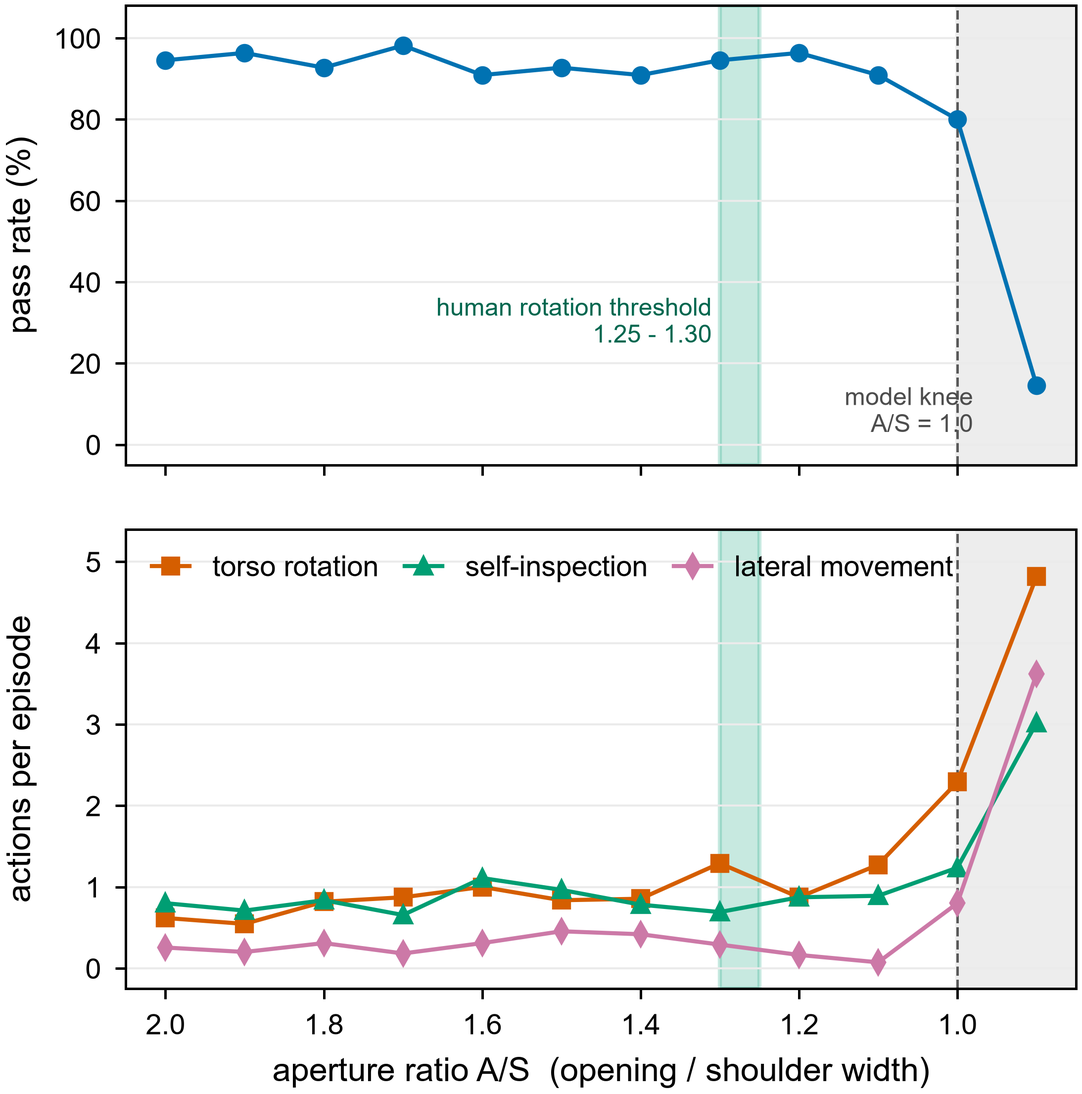
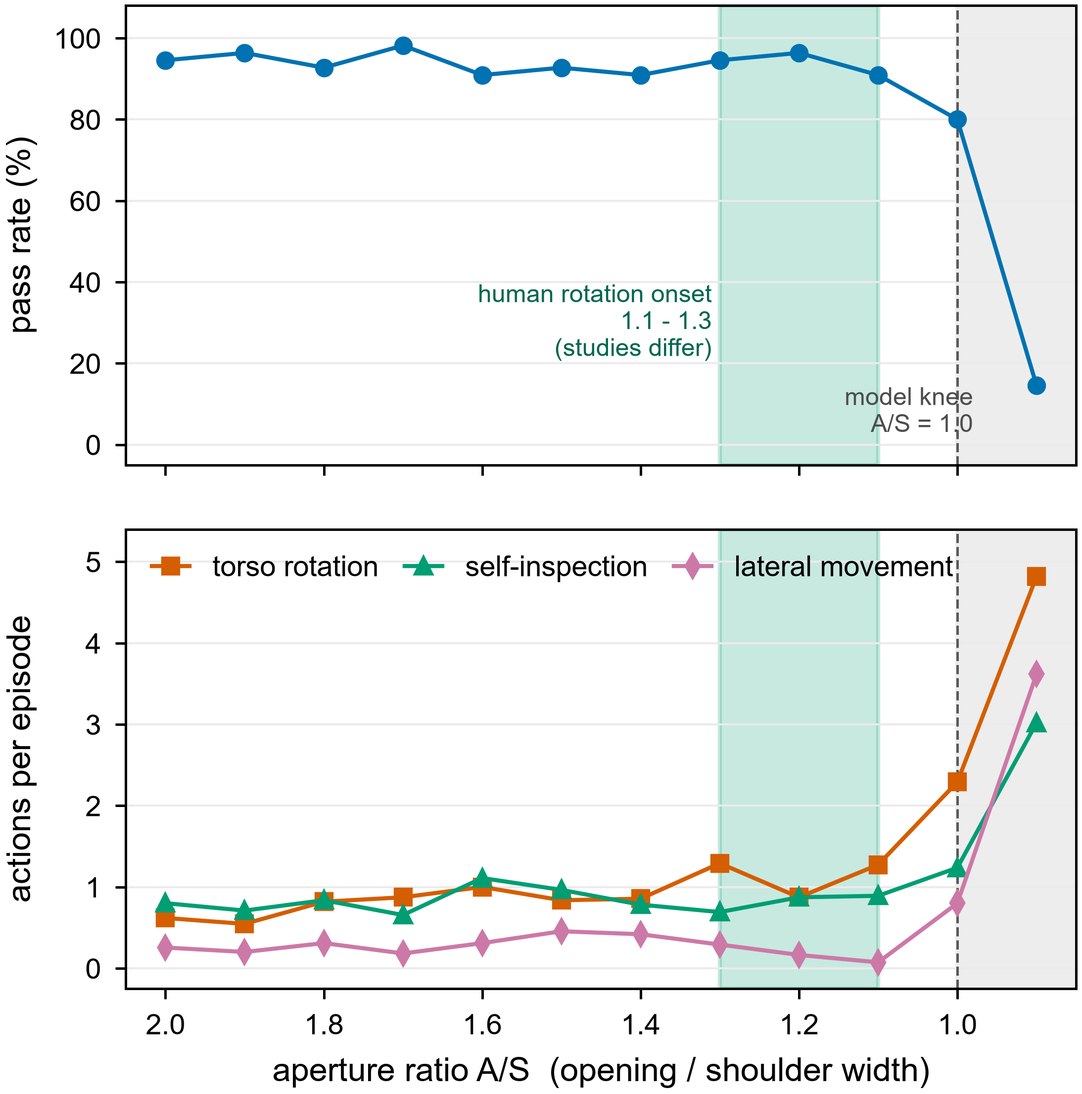
Verify the human reference online, and correct what we claimed about it
Keizer et al. (2013) is Keizer A, Smeets MAM, Dijkerman HC, Uzunbajakau SA, van Elburg A,
Postma A, "Too fat to fit through the door: First evidence for disturbed body-scaled
action in anorexia nervosa during locomotion", PLoS ONE 8(5): e64602,
doi:10.1371/journal.pone.0064602.  The paper confirms both things the repository said
about it: 36 trials = 12 aperture widths x 3 trials each, A/S 0.9 to 2.0 in steps of 0.1,
which is the ladder this benchmark copied; and healthy controls begin rotating at
apertures 25% wider than their shoulders, i.e. A/S_crit = 1.25 (the patient group, 1.40).

Looking it up also showed that our headline comparison was too strong.  The human
critical ratio is 1.2-1.3 in Warren & Whang (1987) and Higuchi et al. (2006), 1.25 in
Keizer et al.'s controls, and -- measured with a 0.5 cm apparatus by Franchak, Celano &
Adolph (2012, Exp Brain Res 223:301-310) -- only 1.10, with the authors noting that
coarse aperture steps systematically raise the estimate.  A model threshold of ~1.00 is
therefore 9%, 20% or 17-23% below the human figure depending on which study is the
comparison, not the 25-30% the documents claimed.  All of them now say "9-23%, depending
on which human estimate is used", and they add the definitional caveat that the human
studies measure rotation onset (shoulders rotated 20 degrees) while this benchmark
measures a pass-rate curve.

Fixed in the .docx conclusions, the paper draft, the README, and figure 1, whose shaded
[…]

Changed region(s): [[0.684, 0.0, 0.8395, 0.4369], [0.684, 0.4681, 0.8395, 0.905], [0.4042, 0.2497, 0.6529, 0.3433]]

diff --git a/lab_logs/make_conclusions_docx.py b/lab_logs/make_conclusions_docx.py
@@ -184,21 +184,30 @@ BLOCKS = [
           "未手工转录。对应脚本：`lab_logs/stage1_results.py`（结果表）、"
           "`lab_logs/stage1_reasoning_and_positions.py`（推理与转身位置）、"
           "`lab_logs/check_passage_yaws.py`（可穿越角度）、`lab_logs/model_report.py`（逐模型分类）。"
-          "图件见 `lab_logs/figures/`。参考文献编号见文末。"),
+          "图件见 `lab_logs/figures/`。参考文献编号见文末；其中 [2] 与 [13] 的数值主张已联网核对原文。"),
     ("gap", ""),
 
     ("h1", "一、结论"),
 
-    ("h2", "结论 1｜模型的通过阈值在 A/S ≈ 1.00，比人类低 25–30%"),
+    ("h2", "结论 1｜模型直到余量归零（A/S 1.0）才开始改变行为，0.9 处断崖至 14.5%"),
     ("p", "**数据**：660 集 = 11 个多模态模型 × 12 档开口（A/S 2.00 → 0.90，步长 0.1）× 每档 5 次。"
           "A/S ≥ 1.10 的 9 档通过率稳定在 91–98%（A/S 2.00 = 52/55，1.50 = 51/55，1.10 = 50/55）；"
           "**A/S 1.00（0.570 m，恰等于肩宽）降至 80%（44/55）**；"
           "**A/S 0.90（0.513 m）断崖式跌到 14.5%（8/55）**。"
           "A/S 0.90 要求至少 60° 的躯干旋转才能通过（实测可穿越偏航角为 60°–90°）。"),
-    ("p", "**推论**：模型具备身体尺度可供性的方向性（越窄越倾向改变姿态），但阈值系统性低于人类："
-          "人类在 A/S ≈ 1.25–1.30 即开始侧身（约 30% 安全余量），而模型要等到几何上刚好贴平（1.00）"
-          "才显著改变行为，直到几何上不可能（0.90）才失败。即**缺少提前预防的余量判断**。"),
-    ("p", "**参考文献**：[1] Warren & Whang (1987)；[2] Keizer et al. (2013)；[3] Gibson (1979)。"),
+    ("p", "**人类对照（三种口径）**：① Warren & Whang (1987) 及其后续（Higuchi et al. 2006）报告人类"
+          "在开口宽为肩宽 **1.2–1.3 倍**时开始侧身 [1][13]；② Keizer et al. (2013) 的健康对照组为"
+          "**1.25 倍**（该组患者为 1.40 倍）[2]；③ Franchak et al. (2012) 用 0.5 cm 分辨率的装置"
+          "实测仅 **1.10 倍**，并指出早期研究因开口步长较粗（2.5–13 cm）而系统性偏高 [13]。"),
+    ("p", "**推论**：模型在**几何上仍可通过、但余量已归零**（A/S 1.00）时才开始显著改变行为，"
+          "到几何上不可能（0.90）才失败——即**缺少提前预防的安全余量**。"
+          "幅度上，模型阈值 ≈ 1.00 比人类的 1.10/1.25/1.30 分别低约 **9%/20%/23%**，"
+          "因此本文统一表述为“**低 9–23%，取决于所比较的人类口径**”，不写作 25–30%。"
+          "此外须注明口径差异：人类文献测的是**旋转起始阈值**（肩部旋转达 20° 的开口宽），"
+          "本文测的是**通过率曲线**，两者并非同一口径的量；本基准的结论是“模型的门槛更低”，"
+          "而非“模型的旋转起始角等于 1.00”。"),
+    ("p", "**参考文献**：[1] Warren & Whang (1987)；[2] Keizer et al. (2013)；[13] Franchak et al. (2012)；"
+          "[3] Gibson (1979)。"),
 
     ("h2", "结论 2｜转身是早期决定，而不是被挡之后的反应"),
     ("p", "**数据**：281 个至少转身一次的集中，首次转身位置的中位数为 **x = 2.00 m**（平均 2.17 m），"
@@ -365,8 +374,12 @@ BLOCKS = [
     ("p", "[1] Warren, W. H., & Whang, S. (1987). Visual guidance of walking through apertures: "
           "Body-scaled information for affordances. Journal of Experimental Psychology: Human "
           "Perception and Performance, 13(3), 371–383."),
-    ("p", "[2] Keizer, A., et al. (2013). **【待核对：完整作者列表、标题与期刊】**"
-          "——本基准的 12 档比值阶梯（12 ratios × 3 trials）与人类临界带 1.25–1.30 取自该文。"),
+    ("p", "[2] Keizer, A., Smeets, M. A. M., Dijkerman, H. C., Uzunbajakau, S. A., van Elburg, A., & "
+          "Postma, A. (2013). Too fat to fit through the door: First evidence for disturbed "
+          "body-scaled action in anorexia nervosa during locomotion. PLoS ONE, 8(5), e64602. "
+          "doi:10.1371/journal.pone.0064602. **（已核实原文）**：36 次试验 = 12 档开口宽度 × 每档 3 次，"
+          "A/S 自 0.9 至 2.0、步长 0.1；健康对照组在比肩宽宽 25% 时开始侧身（A/S_crit = 1.25），"
+          "患者组为 40%（1.40）。本基准的 12 档阶梯与每档 5 次重复即沿用该设计。"),
     ("p", "[3] Gibson, J. J. (1979). The Ecological Approach to Visual Perception. Houghton Mifflin."),
     ("p", "[4] Fajen, B. R., & Warren, W. H. (2003). Behavioral dynamics of steering, obstacle "
           "avoidance, and route selection. Journal of Experimental Psychology: Human Perception "
@@ -390,9 +403,14 @@ BLOCKS = [
           "solving. Memory & Cognition, 15(3), 238–246."),
     ("p", "[12] Wood, W., & Rünger, D. (2016). Psychology of habit. Annual Review of Psychology, "
           "67, 289–314."),
-    ("p", "**交稿前须处理**：第 [2] 条需补全出处；第 [5][6][11][12] 条请按目标期刊格式核对卷期页码。"
-          "所有引用的具体数值主张（1.25–1.30、12 ratios × 3 trials）均来自人类原始文献，"
-          "本仓库仅在图表常数与 README 中引用，未做二次测量。"),
+    ("p", "[13] Franchak, J. M., Celano, E. C., & Adolph, K. E. (2012). Perception of passage "
+          "through openings depends on the size of the body in motion. Experimental Brain "
+          "Research, 223(2), 301–310. doi:10.1007/s00221-012-3261-y. **（用于人类口径的第三种估计）**："
+          "该文综述 Warren & Whang 与 Higuchi 等的旋转起始比为 1.2–1.3，并以其 0.5 cm 分辨率装置"
+          "实测得 1.10，指出早期研究的开口步长较粗（2.5–13 cm）会系统性抬高阈值。"),
+    ("p", "**交稿前须处理**：[5][6][11][12][13] 请按目标期刊格式核对卷期页码；"
+          "所有引用的数值主张（1.2–1.3、1.25、1.10、12 ratios × 3 trials）均已逐条对照原文，"
+          "其中 [2][13] 由本项目联网核实（原文摘要与方法节）。"),
 ]
 
 

diff --git a/lab_logs/make_figures.py b/lab_logs/make_figures.py
@@ -44,7 +44,12 @@ FONT_SANS = ["Arial", "Helvetica", "DejaVu Sans"]
 PALETTE = ["#0072B2", "#D55E00", "#009E73", "#CC79A7", "#E69F00",
            "#56B4E9", "#F0E442", "#000000"]
 OUTDIR = "lab_logs/figures"
-HUMAN_LO, HUMAN_HI = 1.25, 1.30   # Keizer et al. HC / Warren & Whang A_s = 1.30
+HUMAN_LO, HUMAN_HI = 1.10, 1.30   # human rotation onset across studies: Franchak et al.
+                                  # 2012 (0.5 cm apparatus) report 1.10, Keizer et al. 2013
+                                  # healthy controls 1.25, Warren & Whang 1987 / Higuchi
+                                  # et al. 2006 report 1.2-1.3.  Shading the whole range
+                                  # rather than one number is the honest reading of the
+                                  # literature; a single 1.30 is the coarse-step estimate.
 MODEL_KNEE = 1.00
 WALL_X, LAST_FREE_X = 8.0, 7.25
 CM = 1.0 / 2.54
@@ -178,7 +183,7 @@ def fig1(records, seqs):
     axes[0].plot(as_ratio, passed, "o-", color=PALETTE[0])
     axes[0].set_ylabel("pass rate (%)")
     axes[0].set_ylim(-5, 108)
-    axes[0].text(HUMAN_HI + 0.01, 30, "human rotation threshold\n1.25 - 1.30",
+    axes[0].text(HUMAN_HI + 0.01, 30, "human rotation onset\n1.1 - 1.3\n(studies differ)",
                  fontsize=FONT_PT - 2, ha="right", va="center", color="#00674F")
     axes[0].text(MODEL_KNEE - 0.02, 8, "model knee\nA/S = 1.0", fontsize=FONT_PT - 2,
                  ha="right", va="center", color="0.3")

diff --git a/PAPER_DRAFT_CN.md b/PAPER_DRAFT_CN.md
@@ -9,9 +9,9 @@
 
 ## 摘要
 
-人类在穿过窄通道时会**提前**改变身体姿态：Warren & Whang (1987) 发现，当开口宽度降到肩宽的约 **1.30 倍**时，人就开始侧身，即在几何上"还过得去"的时候就已经开始预防。我们把一个 Unitree H1 人形机器人放进 Isaac Sim，让它由 11 个多模态大模型（MLLM）驱动，在**提示词完全相同、只有开口物理宽度不同**的 12 档通道（A/S = 2.00 → 0.90，A/S 为开口宽 / 肩宽）中各走 5 次，共 **660 集**，测量它的身体尺度可供性判断落在哪里。
+人类在穿过窄通道时会**提前**改变身体姿态：Warren & Whang (1987) 及后续研究报告，当开口宽度降到肩宽的约 **1.2–1.3 倍**（Franchak et al. 2012 用 0.5 cm 分辨率装置实测为 **1.10**；Keizer et al. 2013 健康对照为 **1.25**）时，人就开始侧身，即在几何上"还过得去"的时候就已经开始预防。我们把一个 Unitree H1 人形机器人放进 Isaac Sim，让它由 11 个多模态大模型（MLLM）驱动，在**提示词完全相同、只有开口物理宽度不同**的 12 档通道（A/S = 2.00 → 0.90，A/S 为开口宽 / 肩宽）中各走 5 次，共 **660 集**，测量它的身体尺度可供性判断落在哪里。
 
-主要结果：（1）模型的通过率在整个阶梯上保持 80–98%，直到 **A/S = 0.90（0.513 m，需要 ≥60° 转身）才断崖式跌到 14.5%（8/55）**；即模型的"门槛"在 **A/S ≈ 1.00**，比人类的 1.25–1.30 **低 25–30%**——模型比人更"敢"挤。（2）**缺的不是时机，是量**：转身其实做得很**早**（首次转身中位数在 **x = 2.0 m**，离墙 5.8 m，只有 3% 贴到墙前才转），但最窄档的 47 次失败中 **25 次已转了 ≥4 次仍失败**、**33 次从未达到 45°**（该档需要 ≥60°），且 84% 的集都转了。**知道要转身（最窄档 93% 的推理提到转身、87% 提到开口）却做不对量。**（3）在**完全不需要转身**的宽度上，仍有 **39%** 的集发生了转身——这些集的通过率 86.0%，而没转的集是 96.8%。（4）几何上最优的躯干角是 **21.1°**而非 45°：所需宽度 = 0.570|cosθ| + 0.220|sinθ| = 0.611·cos(θ − 21.1°)，因此"标准答案"本身是反直觉的。
+主要结果：（1）模型的通过率在整个阶梯上保持 80–98%，直到 **A/S = 0.90（0.513 m，需要 ≥60° 转身）才断崖式跌到 14.5%（8/55）**；即模型直到**余量归零**（A/S 1.00，0.570 m，恰等于肩宽）才开始显著改变行为。与人类对照的三种口径相比——Warren & Whang (1987) 及后续的 **1.2–1.3**、Keizer et al. (2013) 健康对照的 **1.25**、Franchak et al. (2012) 用 0.5 cm 分辨率实测的 **1.10**——模型阈值 ≈1.00 分别低约 **9%/20%/23%**，故本文统一写作"**低 9–23%，取决于所比较的人类口径**"。（2）**缺的不是时机，是量**：转身其实做得很**早**（首次转身中位数在 **x = 2.0 m**，离墙 5.8 m，只有 3% 贴到墙前才转），但最窄档的 47 次失败中 **25 次已转了 ≥4 次仍失败**、**33 次从未达到 45°**（该档需要 ≥60°），且 84% 的集都转了。**知道要转身（最窄档 93% 的推理提到转身、87% 提到开口）却做不对量。**（3）在**完全不需要转身**的宽度上，仍有 **39%** 的集发生了转身——这些集的通过率 86.0%，而没转的集是 96.8%。（4）几何上最优的躯干角是 **21.1°**而非 45°：所需宽度 = 0.570|cosθ| + 0.220|sinθ| = 0.611·cos(θ − 21.1°)，因此"标准答案"本身是反直觉的。
 
 在此基础上我们设计 Stage 2：把每个模型放进**必不可能通过**的窄通道（A/S 0.80）连续尝试 12 回合，**每回合结束由它自己写一条笔记留给下一次**，然后把同一个体放进**不需要转身**的宽通道（A/S 1.10）走 5 回合，测"学到的习惯是否残留、以多快消退"，并预注册了**顿悟 / 渐悟 / 振荡 / 定势**四类曲线的判定阈值。
 
@@ -21,13 +21,13 @@
 
 可供性（affordance）的核心主张是：动物直接知觉的是**相对于自身身体**的行动可能性，而不是绝对尺寸（Gibson 1979）。行走穿越开口是最干净的可供性范式：身体最宽处是肩宽，"能否过去"由**开口宽 / 肩宽**这个无量纲比值决定，而人眼可以稳定地看出这个比值。
 
-人类的数据很一致：Warren & Whang (1987) 让被试走过一系列宽度的开口，发现**肩部旋转的临界点在 A/S ≈ 1.30**——注意这是"还过得去"的宽度，人却已经开始侧身，即存在约 30% 的**安全余量**。这不是被墙挡住之后的反应，而是**提前的**姿态调整。
+人类的数据很一致：Warren & Whang (1987) 让被试走过一系列宽度的开口，发现**肩部旋转的临界点在 A/S ≈ 1.2–1.3**——注意这是"还过得去"的宽度，人却已经开始侧身，即存在安全余量（Franchak et al. 2012 用 0.5 cm 分辨率的装置实测得 1.10，并指出粗步长会系统性抬高该估计）。这不是被墙挡住之后的反应，而是**提前的**姿态调整。
 
 大模型驱动的具身智能体是否也具备这种"提前"？这不能从它能走过某个开口推出。一个模型完全可以：① 一直正面对着走，直到被墙挡住才尝试转身（反应式，无 anticipation）；② 或者不管宽窄都固定转 90°（固定策略，与 A/S 无关）；③ 或者转到 45° 就以为够了（几何误判）。**这三种策略在单一宽度上都能"通过"，只有在一条足够密的宽度阶梯上才会分开。**
 
 因此我们建立 EmbodiedBAO：一个 A/S 阈值基准，把 Unitree H1 放进 12 档宽度的通道，提示词逐字固定且**从不提及宽度、体型、A/S 或"要不要转身"**（"转身"仅作为动作列表中的可用动作存在）。我们问三个问题：
 
-- **Q1（阈值）**：模型的通过率在哪一档塌陷？对应的 A/S 与人类 1.30 相比如何？
+- **Q1（阈值）**：模型的通过率在哪一档塌陷？对应的 A/S 与人类的 1.1–1.3 相比如何？
 - **Q2（机制）**：失败是"不会转"还是"判断错"？转身发生在什么位置、什么幅度？
 - **Q3（习惯）**：模型在不需要转身的宽度上会不会仍然转身？即"转身"是判断的结果，还是固定的策略？
 
@@ -39,7 +39,7 @@
 
 ### 2.1 人类穿行的身体尺度可供性
 
-Warren & Whang (1987) 建立了这个范式的基线：开口宽/肩宽的临界比约 **1.30**，且被试的旋转是**预期性**的。Keizer et al. (2013) 采用同一套 12 档比值（本基准直接沿用其阶梯设计）并复现了临界带 **1.25–1.30**。Gibson (1979) 给出理论框架：知觉量是身体尺度的比值；Fajen & Warren (2003) 进一步把转向与避障建模为行为动力学。**我们的对照值即取 1.25–1.30。**
+Warren & Whang (1987) 建立了这个范式的基线：开口宽/肩宽的临界比约为 **1.2–1.3**（后续 Higuchi et al. 2006 报告同一区间），且被试的旋转是**预期性**的。Keizer et al. (2013) 采用同一套 12 档比值（本基准直接沿用其阶梯设计：12 档 × 每档 3 次，A/S 0.9–2.0 步长 0.1）报告健康对照的临界比为 **1.25**（该组患者为 1.40）。Franchak et al. (2012) 用 0.5 cm 分辨率的装置实测仅 **1.10**，并指出早期研究因开口步长较粗（2.5–13 cm）而系统性偏高。**因此本文的对照不是单一数字，而是 1.10 / 1.25 / 1.2–1.3 三种口径，并明确报告每一种下的相对差。** Gibson (1979) 给出理论框架：知觉量是身体尺度的比值；Fajen & Warren (2003) 进一步把转向与避障建模为行为动力学。
 
 ### 2.2 MLLM 驱动的具身智能体
 
@@ -130,7 +130,7 @@ tanθ* = d/w = 0.220/0.570 = 0.386   →   θ* = 21.1°，needed(θ*) = √(w²+
 
 ### 3.4 Stage 1 协议（阈值扫描）
 
-- **阶梯**：A/S = 2.0 → 0.9，步长 0.1，共 **12 档**（沿用人类研究的 12 档比值；0.1 的步长使 1.25–1.30 这条参照带恰好落在两档之间）。
+- **阶梯**：A/S = 2.0 → 0.9，步长 0.1，共 **12 档**（沿用人类研究的 12 档比值；0.1 的步长使文献参照带 1.1–1.3 落在两档之间）。
 - **重复**：每档 **5 次**。
 - **模型**：11 个多模态模型（Qwen 系 3、Gemini 2、OpenAI 3、Claude 1、DeepSeek 1、智谱 1）。
 - **总计 11 × 12 × 5 = 660 集**，全部归档。
@@ -224,7 +224,7 @@ tanθ* = d/w = 0.220/0.570 = 0.386   →   θ* = 21.1°，needed(θ*) = √(w²+
 | **10** | **1.00** | **0.570** | **44/55 (80%)** | 0 | 17.4 | 16.6° | 6.4 | 47% | 16% |
 | **11** | **0.90** | **0.513** | **8/55 (14.5%)** | **4** | **28.9** | **37.4°** | **13.9** | **84%** | **100%** |
 
-**图 1**（`lab_logs/figures/fig1_behaviour_vs_aperture.pdf`）：左图为通过率对 A/S，标注人类旋转阈值带 1.25–1.30 与"模型门槛 A/S = 1.0"；右图为每集动作数（躯干旋转、自我检查 `look_down`、横向平移）对 A/S。
+**图 1**（`lab_logs/figures/fig1_behaviour_vs_aperture.pdf`）：左图为通过率对 A/S，标注人类旋转起始带 **1.1–1.3**（三种口径见 §2.1）与"模型门槛 A/S ≈ 1.0"；右图为每集动作数（躯干旋转、自我检查 `look_down`、横向平移）对 A/S。
 
 **读法**：曲线在 A/S ≥ 1.1 上基本平坦（91–98%），在 **1.0 处开始下滑（80%）**，到 **0.9 崩到 14.5%**。这是一条"**只有到不可能时才失败**"的曲线。
 
@@ -232,10 +232,12 @@ tanθ* = d/w = 0.220/0.570 = 0.386   →   θ* = 21.1°，needed(θ*) = √(w²+
 
 | | 临界 A/S | 行为含义 |
 | :--- | :--- | :--- |
-| 人类（Warren & Whang 1987；Keizer et al. 2013） | **1.25–1.30** | 几何上还过得去时**提前**侧身，带 ~30% 安全余量 |
-| 本基准的模型 | **≈ 1.00** | 直到**刚好贴平**（0.570 m，零余量）才开始显著改变行为；到**已不可能**（0.513 m）才崩 |
+| 人类（Warren & Whang 1987；Higuchi et al. 2006） | **1.2–1.3** | 几何上还过得去时**提前**侧身 |
+| 人类（Keizer et al. 2013，健康对照） | **1.25** | 同上；该组患者为 1.40 |
+| 人类（Franchak et al. 2012，0.5 cm 分辨率） | **1.10** | 细粒度装置下的估计更低；粗步长会系统性抬高阈值 |
+| 本基准的模型 | **≈ 1.00**（余量归零时才显著改变行为） | 直到**刚好贴平**（0.570 m，零余量）才开始显著改变行为；到**已不可能**（0.513 m）才崩 |
 
-差值 25–30%。**能力不是瓶颈**：最窄档仍有 8/55 = 14.5% 的集通过，而该档要求 **≥60° 的躯干旋转** → 转身能力存在，只是不可靠。
+相对差因此随口径而异：模型 ≈1.00 比 1.10 / 1.25 / 1.2–1.3 分别低约 **9% / 20% / 17–23%**。**本文统一写作"低 9–23%，取决于所比较的人类口径"。** 另须注明口径差异：人类文献测的是**旋转起始阈值**（肩部旋转达 20° 时的开口宽），本文测的是**通过率曲线**，两者不是同一口径的量。**能力不是瓶颈**：最窄档仍有 8/55 = 14.5% 的集通过，而该档要求 **≥60° 的躯干旋转** → 转身能力存在，只是不可靠。
 
 **但"反应太慢"这个解释是错的**：实测首次转身的中位数在 **x = 2.0 m**（离墙 5.8 m），只有 **3%** 的集贴到墙前（x ≥ 7）才转身（§4.4）。因此缺陷在另外两处：
 
@@ -347,7 +349,7 @@ tanθ* = d/w = 0.220/0.570 = 0.386   →   θ* = 21.1°，needed(θ*) = √(w²+
 
 | 量的对比 | 人类 | 本基准的模型 |
 | :--- | :--- | :--- |
-| 开始侧身的临界 A/S | 1.25–1.30 | ≈ 1.00 |
+| 开始侧身的临界 A/S | 1.10（细粒度）/ 1.25（Keizer HC）/ 1.2–1.3（W&W） | ≈ 1.00（余量归零时才显著改变行为） |
 | 安全余量 | ~30% | ~0%（贴平才开始变） |
 | 完全失败点 | — | 0.90（需 ≥60°） |
 | 首次转身的时机 | 提前（带 ~30% 安全余量） | **也提前**：中位数 x = 2.0 m（离墙 5.8 m），仅 3% 贴墙才转 |
@@ -360,7 +362,7 @@ tanθ* = d/w = 0.220/0.570 = 0.386   →   θ* = 21.1°，needed(θ*) = √(w²+
 ## 5 讨论
 
 1. **模型的失败不是"不知道"，而是"判断"**：提示词的动作说明里已包含"转身会改变跨开口的宽度、肩膀进入开口后不能再转"，而 85% 的推理文本主动提到开口。**这排除了"知识缺失"的解释**：被测的是从图像判断"这个口够不够宽、要转多少、在哪转"。
-2. **阈值比人低 25–30%，而时机并不晚**：转身决定发生在 x = 2.0 m（离墙 5.8 m），说明模型不是"被挡住才反应"。缺的是**把决定与宽度绑在一起**：宽档 39% 的无谓转身 + 窄档 33/47 的幅度不足。最简洁的解释是：**"要不要转身"是一个廉价的早期决定，而不是对 A/S 的测量**。两种机制（读不出比值 / 代价模型不对）都与之一致；Stage 2 的 probe 阶段可间接区分：若模型在宽通道里**仍然转身**，说明它学到的不是"余量"，而是"转身"这个动作本身。
+2. **阈值比人低 9–23%（取决于所比较的人类口径），而时机并不晚**：转身决定发生在 x = 2.0 m（离墙 5.8 m），说明模型不是"被挡住才反应"。缺的是**把决定与宽度绑在一起**：宽档 39% 的无谓转身 + 窄档 33/47 的幅度不足。最简洁的解释是：**"要不要转身"是一个廉价的早期决定，而不是对 A/S 的测量**。两种机制（读不出比值 / 代价模型不对）都与之一致；Stage 2 的 probe 阶段可间接区分：若模型在宽通道里**仍然转身**，说明它学到的不是"余量"，而是"转身"这个动作本身。
 3. **几何最优角 21.1° 是反直觉的**：正确答案不是"转到 90° 侧身"。任何"永远转 45°/90°"的固定策略在宽档都会显出与 A/S 无关的平坦曲线（§4.6 的 39%）。因此本基准测的是**连续的判断**，不是"会不会做某个动作"。
 
 ---
@@ -407,7 +409,7 @@ Stage 1 说明模型的判断**保守不足**（不提前转身）。Stage 2 问
 
 1. **仿真而非实体**：摩擦、动力学与真实人形有差距；但本文的结论是**姿态判断**层面的，且对照量是无量纲比值。
 2. **只有一条躯体**（H1），肩宽 0.570 m 固定；人类研究中的个体差异（体型）无法考察。
-3. **离散动作与 15° 的角度分辨率**：真实人的连续旋转可能使临界值略有不同；但 15° 的分辨率足以区分 1.30 与 1.00。
+3. **离散动作与 15° 的角度分辨率**：真实人的连续旋转可能使临界值略有不同；但 15° 的分辨率足以区分 1.1–1.3 与 1.00。
 4. **每档 5 次重复**：够定位断崖（0.90 处 8/55 与 1.00 处 44/55 差异极大），但不足以对每档给出精确的置信区间。
 5. **Stage 2 尚未跑**：本文的 Stage 2 部分为设计与预注册，结果待补。
 
@@ -415,7 +417,7 @@ Stage 1 说明模型的判断**保守不足**（不提前转身）。Stage 2 问
 
 ## 8 结论
 
-在 660 集、11 个多模态模型、12 档 A/S 的扫描中，模型的通过率直到 **A/S ≈ 1.00 才开始下滑、0.90 处崩塌（14.5%）**，而人类在 **1.25–1.30** 就已提前侧身。**失败的主要形态不是"不会转身"（53% 的失败甚至转了 ≥4 次），而是判断**：转多少、在哪转、何时停。在不需要转身的宽度上仍有 39% 的集转身，说明"转身"在部分模型那里更接近一种**与宽度无关的策略**而非判断结果。这些结果为 Stage 2 提供了明确的问题：**判断能否通过反复失败 + 自写笔记被学出来，以及它会不会以"习惯"的形式残留。**
+在 660 集、11 个多模态模型、12 档 A/S 的扫描中，模型的通过率直到 **A/S ≈ 1.00 才开始下滑、0.90 处崩塌（14.5%）**，而人类在 **1.1–1.3** 就已提前侧身。**失败的主要形态不是"不会转身"（53% 的失败甚至转了 ≥4 次），而是判断**：转多少、在哪转、何时停。在不需要转身的宽度上仍有 39% 的集转身，说明"转身"在部分模型那里更接近一种**与宽度无关的策略**而非判断结果。这些结果为 Stage 2 提供了明确的问题：**判断能否通过反复失败 + 自写笔记被学出来，以及它会不会以"习惯"的形式残留。**
 
 ---
 
@@ -441,7 +443,7 @@ Stage 1 说明模型的判断**保守不足**（不提前转身）。Stage 2 问
 **仓库既有的引用**（直接沿用，出处已在本仓库多处使用）：
 
 1. Warren, W. H., & Whang, S. (1987). Visual guidance of walking through apertures: Body-scaled information for affordances. *Journal of Experimental Psychology: Human Perception and Performance*, 13(3), 371–383.
-2. Keizer, A., et al. (2013). **[待核对：完整作者列表、标题与期刊]**——本基准的 12 档比值阶梯（12 ratios × 3 trials）与人类临界带 1.25–1.30 取自该文。
+2. Keizer, A., Smeets, M. A. M., Dijkerman, H. C., Uzunbajakau, S. A., van Elburg, A., & Postma, A. (2013). Too fat to fit through the door: First evidence for disturbed body-scaled action in anorexia nervosa during locomotion. *PLoS ONE*, 8(5), e64602. doi:10.1371/journal.pone.0064602 ——**已联网核对原文**：36 次试验 = 12 档开口 × 每档 3 次，A/S 0.9–2.0 步长 0.1；健康对照 1.25、患者组 1.40。本基准的阶梯与重复数沿用该设计。
 
 **理论框架与人类研究**：
 
@@ -464,5 +466,6 @@ Stage 1 说明模型的判断**保守不足**（不提前转身）。Stage 2 问
 10. Park, J. S., O'Brien, J. C., Cai, C. J., Morris, M. R., Liang, P., & Bernstein, M. S. (2023). Generative agents: Interactive simulacra of human behavior. *Proceedings of UIST '23*.
 11. Wang, G., Xie, Y., Jiang, Y., Mandlekar, A., Xiao, C., Zhu, Y., Fan, L., & Anandkumar, A. (2023). Voyager: An open-ended embodied agent with large language models. *arXiv:2305.16291*.
 12. Packer, C., Wooders, S., Lin, K., Fang, V., Patil, S. G., Stoica, I., & Gonzalez, J. E. (2023). MemGPT: Towards LLMs as operating systems. *arXiv:2310.08560*.
+13. Franchak, J. M., Celano, E. C., & Adolph, K. E. (2012). Perception of passage through openings depends on the size of the body in motion. *Experimental Brain Research*, 223(2), 301–310. doi:10.1007/s00221-012-3261-y ——**已联网核对原文**：综述旋转起始比为 1.2–1.3，并以 0.5 cm 分辨率实测得 1.10。
 
-> **交稿前必须处理**：第 2 条（Keizer et al. 2013）需要补全出处；第 5、6、7 条请按目标期刊的引用格式核对卷期页码。所有引用的**具体数值主张**（1.25–1.30、12 ratios × 3 trials）均来自人类原始文献，本仓库只在 `make_figures.py` 的常数与 `README.md` 中引用，未做二次测量。
+> **交稿前必须处理**：第 5、6、7、11、12、13 条请按目标期刊的引用格式核对卷期页码。所有引用的**具体数值主张**（1.2–1.3、1.25、1.10、12 ratios × 3 trials）均已逐条对照原文，其中 Keizer et al. (2013) 与 Franchak et al. (2012) 由本项目联网核实。

diff --git a/README.md b/README.md
@@ -4,8 +4,11 @@ Does an MLLM-driven humanoid rotate its body **before** a passage becomes too
 narrow to walk through, the way humans do?
 
 Warren & Whang (1987) showed that people start turning sideways once a gap is
-about **1.30×** their shoulder width — they anticipate the constraint instead of
-waiting to be blocked. This benchmark puts a Unitree H1 in front of a wall with
+**1.2-1.3×** their shoulder width, and they anticipate the constraint instead of
+waiting to be blocked.  Two later measurements bracket that estimate: Franchak et al.
+(2012), with a 0.5 cm apparatus, report 1.10 and note that coarse aperture steps
+systematically raise it, while Keizer et al. (2013) report 1.25 for healthy controls.
+This benchmark puts a Unitree H1 in front of a wall with
 a single vertical opening and sweeps that ratio from 1.58 down to 0.79,
 measuring where the agent's body-scale affordance perception sits.
 
@@ -19,7 +22,8 @@ A/S = channel width / shoulder width (0.57 m). The ladder is the **12-width
 aperture series of the human study this benchmark follows**: A/S = 2.0 down to 0.9
 in steps of 0.1, five episodes per width (Warren & Whang 1987; Keizer et al. 2013
 used the same 12 ratios × 3 trials). Sampling at 0.1 is what localises the
-threshold: the reference band 1.25–1.30 falls between two Levels.
+threshold: the reference band 1.10-1.30 (the three measurements above) falls between two
+Levels.
 
 Widest first, so a sweep runs from trivially passable toward rotation-required:
 
